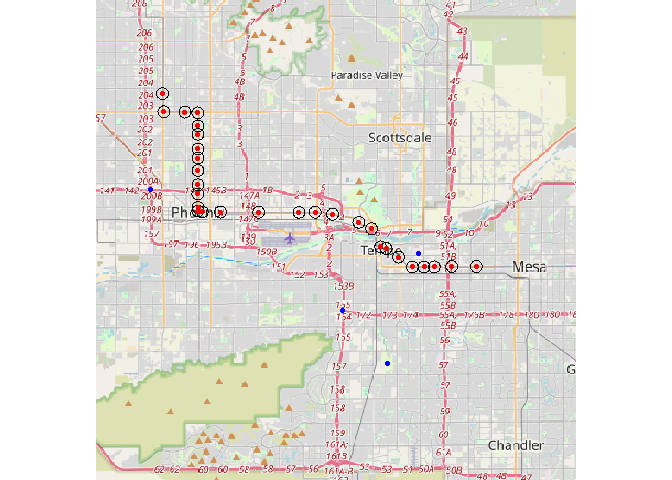
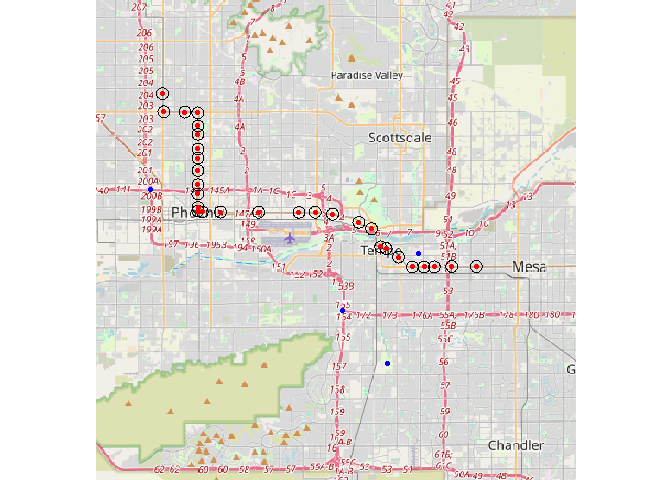
updated README

diff --git a/README.md b/README.md
@@ -487,3 +487,173 @@ summary(m1<-lm(log(pm25) ~ MetroOpen + as.factor(dow) + as.factor(month) +lag_te
       (5153 observations deleted due to missingness)
     Multiple R-squared:  0.2418,    Adjusted R-squared:  0.2415 
     F-statistic:  1002 on 22 and 69151 DF,  p-value: < 2.2e-16
+
+## Creating a Map and Drawing Conclusions
+
+From the regression we thought was best, we turned the map of the
+stations into a representation of which locations saw the largest
+increases/decreases, as well as showing the other nearby pollution
+sources.
+
+``` r
+summary(m1<-lm(log(pm25) ~ MetroOpen:as.factor(city_num)+Tair_f_tavg+lag_temp+lag_temp2 + lag_temp3 + lag_temp4 +Wind_f_tavg+lag_wind+ lag_wind2 + lag_wind3 + lag_wind4+Qair_f_tavg+lag_hum+lag_hum2 + lag_hum3 + lag_hum4+construction+is_holiday+t+t2+t3+t4 , data=df3))
+```
+
+
+    Call:
+    lm(formula = log(pm25) ~ MetroOpen:as.factor(city_num) + Tair_f_tavg + 
+        lag_temp + lag_temp2 + lag_temp3 + lag_temp4 + Wind_f_tavg + 
+        lag_wind + lag_wind2 + lag_wind3 + lag_wind4 + Qair_f_tavg + 
+        lag_hum + lag_hum2 + lag_hum3 + lag_hum4 + construction + 
+        is_holiday + t + t2 + t3 + t4, data = df3)
+
+    Residuals:
+         Min       1Q   Median       3Q      Max 
+    -1.76216 -0.21129 -0.00628  0.20426  2.50606 
+
+    Coefficients:
+                                      Estimate Std. Error t value Pr(>|t|)    
+    (Intercept)                      1.455e+04  1.659e+03   8.770  < 2e-16 ***
+    Tair_f_tavg                      8.593e-03  6.142e-04  13.989  < 2e-16 ***
+    lag_temp                        -1.987e+02  2.257e+01  -8.807  < 2e-16 ***
+    lag_temp2                        1.019e+00  1.151e-01   8.856  < 2e-16 ***
+    lag_temp3                       -2.324e-03  2.607e-04  -8.917  < 2e-16 ***
+    lag_temp4                        1.990e-06  2.214e-07   8.987  < 2e-16 ***
+    Wind_f_tavg                     -9.429e-02  1.853e-03 -50.889  < 2e-16 ***
+    lag_wind                        -1.378e+00  1.088e-01 -12.664  < 2e-16 ***
+    lag_wind2                        5.348e-01  4.573e-02  11.696  < 2e-16 ***
+    lag_wind3                       -8.978e-02  8.166e-03 -10.995  < 2e-16 ***
+    lag_wind4                        5.333e-03  5.238e-04  10.181  < 2e-16 ***
+    Qair_f_tavg                     -3.672e+01  9.767e-01 -37.593  < 2e-16 ***
+    lag_hum                         -1.762e+02  1.818e+01  -9.689  < 2e-16 ***
+    lag_hum2                         2.271e+04  3.845e+03   5.907 3.50e-09 ***
+    lag_hum3                        -1.291e+06  3.327e+05  -3.879 0.000105 ***
+    lag_hum4                         2.579e+07  1.004e+07   2.568 0.010229 *  
+    construction                     1.898e-01  1.176e-02  16.144  < 2e-16 ***
+    is_holidayTRUE                   2.230e-01  7.432e-03  30.002  < 2e-16 ***
+    t                               -1.199e-03  4.846e-05 -24.734  < 2e-16 ***
+    t2                               2.297e-06  7.064e-08  32.518  < 2e-16 ***
+    t3                              -1.380e-09  4.001e-11 -34.503  < 2e-16 ***
+    t4                               2.632e-13  7.632e-15  34.481  < 2e-16 ***
+    MetroOpen:as.factor(city_num)2  -2.118e-02  1.705e-02  -1.243 0.214001    
+    MetroOpen:as.factor(city_num)3  -2.284e-05  1.705e-02  -0.001 0.998931    
+    MetroOpen:as.factor(city_num)4   7.876e-03  1.705e-02   0.462 0.644073    
+    MetroOpen:as.factor(city_num)5   2.088e-02  1.705e-02   1.225 0.220659    
+    MetroOpen:as.factor(city_num)6   1.852e-02  1.705e-02   1.087 0.277234    
+    MetroOpen:as.factor(city_num)7   4.955e-02  1.705e-02   2.906 0.003659 ** 
+    MetroOpen:as.factor(city_num)8   4.325e-02  1.705e-02   2.537 0.011193 *  
+    MetroOpen:as.factor(city_num)9   6.548e-02  1.705e-02   3.841 0.000123 ***
+    MetroOpen:as.factor(city_num)10  9.925e-02  1.705e-02   5.822 5.85e-09 ***
+    MetroOpen:as.factor(city_num)11  1.442e-01  1.705e-02   8.457  < 2e-16 ***
+    MetroOpen:as.factor(city_num)12  1.041e-01  1.705e-02   6.105 1.03e-09 ***
+    MetroOpen:as.factor(city_num)13  1.041e-01  1.705e-02   6.105 1.03e-09 ***
+    MetroOpen:as.factor(city_num)14  1.384e-01  1.705e-02   8.117 4.87e-16 ***
+    MetroOpen:as.factor(city_num)15  1.262e-01  1.705e-02   7.405 1.33e-13 ***
+    MetroOpen:as.factor(city_num)16  1.023e-01  1.705e-02   6.002 1.96e-09 ***
+    MetroOpen:as.factor(city_num)17  4.220e-02  1.705e-02   2.475 0.013318 *  
+    MetroOpen:as.factor(city_num)18  2.214e-02  1.705e-02   1.299 0.194080    
+    MetroOpen:as.factor(city_num)19 -2.072e-03  1.705e-02  -0.122 0.903254    
+    MetroOpen:as.factor(city_num)20  2.559e-02  1.705e-02   1.501 0.133368    
+    MetroOpen:as.factor(city_num)21 -1.280e-02  1.705e-02  -0.751 0.452741    
+    MetroOpen:as.factor(city_num)22 -3.635e-03  1.705e-02  -0.213 0.831135    
+    MetroOpen:as.factor(city_num)23  1.769e-02  1.705e-02   1.038 0.299378    
+    MetroOpen:as.factor(city_num)24 -7.734e-03  1.705e-02  -0.454 0.650062    
+    MetroOpen:as.factor(city_num)25 -5.436e-03  1.705e-02  -0.319 0.749812    
+    MetroOpen:as.factor(city_num)26 -1.993e-02  1.705e-02  -1.169 0.242433    
+    MetroOpen:as.factor(city_num)27 -7.798e-02  1.705e-02  -4.574 4.80e-06 ***
+    MetroOpen:as.factor(city_num)28 -1.324e-01  1.705e-02  -7.769 8.03e-15 ***
+    ---
+    Signif. codes:  0 '***' 0.001 '**' 0.01 '*' 0.05 '.' 0.1 ' ' 1
+
+    Residual standard error: 0.3458 on 69125 degrees of freedom
+      (5153 observations deleted due to missingness)
+    Multiple R-squared:  0.253, Adjusted R-squared:  0.2525 
+    F-statistic: 487.7 on 48 and 69125 DF,  p-value: < 2.2e-16
+
+``` r
+len_coef<-length(coef(m1))
+
+#get coefficients of the station-level effect
+coef<-coef(m1)[(len_coef-26): len_coef]
+
+#get p values of the station-level effect (p<0.05 is statistically significant)
+pval<-summary(m1)$coefficients[,4][(len_coef-26): len_coef]
+
+kable(cbind(coef, pval), digits=2)
+```
+
+|                                 |  coef | pval |
+|:--------------------------------|------:|-----:|
+| MetroOpen:as.factor(city_num)2  | -0.02 | 0.21 |
+| MetroOpen:as.factor(city_num)3  |  0.00 | 1.00 |
+| MetroOpen:as.factor(city_num)4  |  0.01 | 0.64 |
+| MetroOpen:as.factor(city_num)5  |  0.02 | 0.22 |
+| MetroOpen:as.factor(city_num)6  |  0.02 | 0.28 |
+| MetroOpen:as.factor(city_num)7  |  0.05 | 0.00 |
+| MetroOpen:as.factor(city_num)8  |  0.04 | 0.01 |
+| MetroOpen:as.factor(city_num)9  |  0.07 | 0.00 |
+| MetroOpen:as.factor(city_num)10 |  0.10 | 0.00 |
+| MetroOpen:as.factor(city_num)11 |  0.14 | 0.00 |
+| MetroOpen:as.factor(city_num)12 |  0.10 | 0.00 |
+| MetroOpen:as.factor(city_num)13 |  0.10 | 0.00 |
+| MetroOpen:as.factor(city_num)14 |  0.14 | 0.00 |
+| MetroOpen:as.factor(city_num)15 |  0.13 | 0.00 |
+| MetroOpen:as.factor(city_num)16 |  0.10 | 0.00 |
+| MetroOpen:as.factor(city_num)17 |  0.04 | 0.01 |
+| MetroOpen:as.factor(city_num)18 |  0.02 | 0.19 |
+| MetroOpen:as.factor(city_num)19 |  0.00 | 0.90 |
+| MetroOpen:as.factor(city_num)20 |  0.03 | 0.13 |
+| MetroOpen:as.factor(city_num)21 | -0.01 | 0.45 |
+| MetroOpen:as.factor(city_num)22 |  0.00 | 0.83 |
+| MetroOpen:as.factor(city_num)23 |  0.02 | 0.30 |
+| MetroOpen:as.factor(city_num)24 | -0.01 | 0.65 |
+| MetroOpen:as.factor(city_num)25 | -0.01 | 0.75 |
+| MetroOpen:as.factor(city_num)26 | -0.02 | 0.24 |
+| MetroOpen:as.factor(city_num)27 | -0.08 | 0.00 |
+| MetroOpen:as.factor(city_num)28 | -0.13 | 0.00 |
+
+``` r
+c1<-vect("buffer.shp")
+
+c2<-subset(c1, c1$FID>0 & c1$FID<28)
+c1df<-as.data.frame(c1)
+
+coef2<-c(coef)*100
+coefdf<-as.data.frame(coef2)
+cities_coef<-cbind(c2, coefdf)
+
+sources <- read.csv("Poll_Coordinates.csv")
+dfy<- sources %>%
+  filter(Source != "SOURCE Arizona") %>%
+  select(lon2,lat2)
+y <- vect(dfy, geom=c("lon2", "lat2"), crs="+proj=longlat +ellps=WGS84 +datum=WGS84 +no_defs ")
+
+bgext<-buffer(c2, width=9000)
+
+#get background map
+bg <- get_tiles(ext(bgext),provider = "Esri.WorldShadedRelief", crop = TRUE)
+
+plot(bg)
+
+plot(cities_coef,
+     "coef2",
+     type="interval",
+     breaks=c(-10, -5, 0, 5, 10, 15, 20),
+     col=map.pal("gyr"),add=TRUE, legend="topright", plg=list(cex=1))
+
+points(y, col = "blue", cex=3)
+```
+
+![](README_files/figure-commonmark/unnamed-chunk-12-1.png)
+
+## Conclusions
+
+As shown, the stations in the middle of the line near the center of
+Phoenix saw an increase in air pollution, while stations closer to the
+ends of the line saw decreases. After a little more research, we
+discovered that this was likely due to the surrounding geography. The
+mountains around Phoenix meant that air pollution in the area would get
+trapped in the “bowl” that the mountains created, which would make the
+air quality worse over time. The stations near the ends of the line are
+not as affected by this phenomenon, and we can see that the light rails
+did have an effect decreasing the air pollution in those areas.
